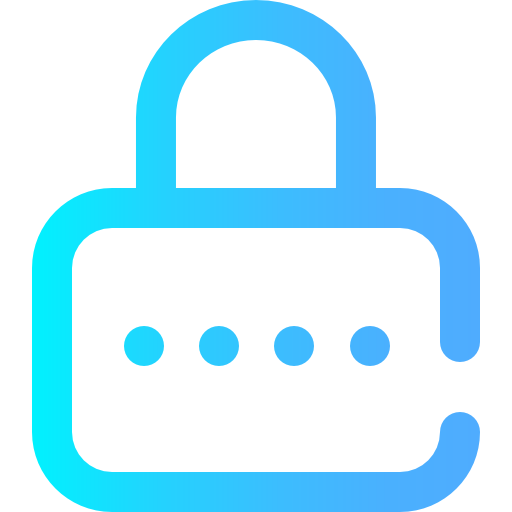
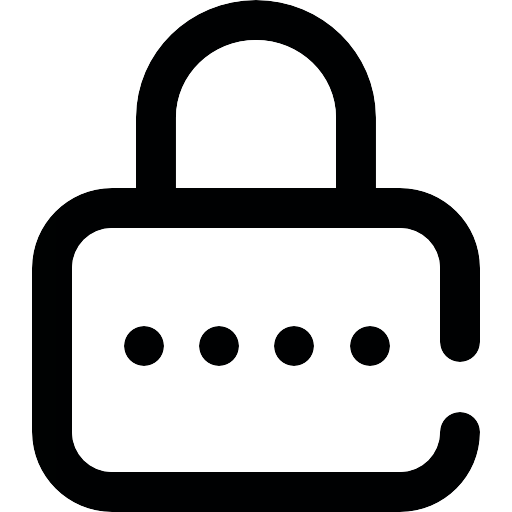
dark mode png updated

diff --git a/screens/EmployeeCheckin.js b/screens/EmployeeCheckin.js
@@ -77,7 +77,11 @@ const EmployeeCheckin = ({navigation, route}) => {
                 onPress={() => navigation.navigate('IdPass', {isCheckoutMode})}>
                 <View style={styles.row1}>
                   <Image
-                    source={require('../assets/pass.png')} // ID icon
+                    source={
+                      isDarkTheme
+                        ? require('../assets/pass.png')
+                        : require('../assets/pass1.png')
+                    }
                     style={styles.icon}
                     resizeMode="contain"
                   />
@@ -95,7 +99,11 @@ const EmployeeCheckin = ({navigation, route}) => {
                   {borderColor: theme.border},
                 ]}>
                 <Image
-                  source={require('../assets/fingerprint.webp')} // Fingerprint icon
+                 source={
+                  isDarkTheme
+                    ? require('../assets/fingerprint.webp')
+                    : require('../assets/fingerprint1.webp')
+                }
                   style={styles.icon}
                   resizeMode="contain"
                 />
@@ -113,7 +121,11 @@ const EmployeeCheckin = ({navigation, route}) => {
                 ]}
                 onPress={() => navigation.navigate('FaceRecog')}>
                 <Image
-                  source={require('../assets/face_recognition.webp')} // Face Recognition icon
+                  source={
+                    isDarkTheme
+                      ? require('../assets/face_recognition.webp')
+                      : require('../assets/face_recognition1.webp')
+                  }
                   style={styles.icon}
                   resizeMode="contain"
                 />
